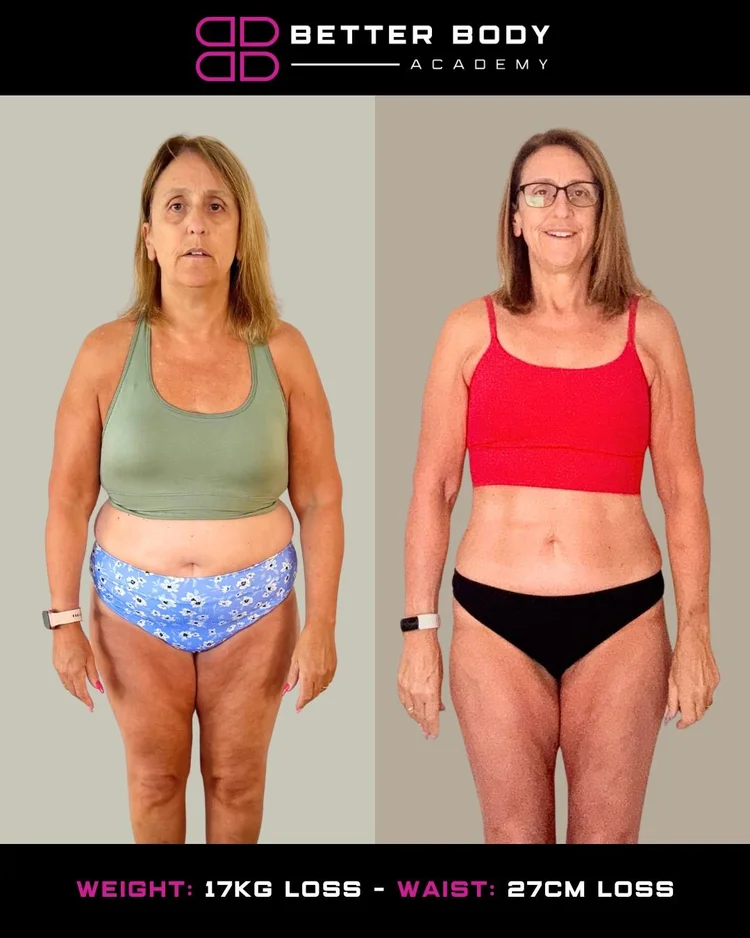
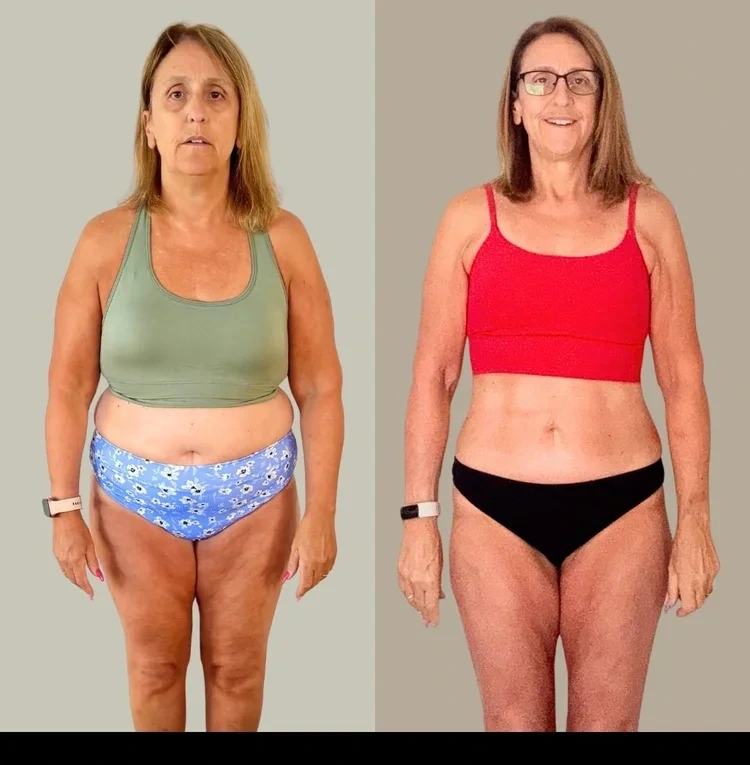
Tidy cover slide, drop numbered list pins, crop case-study photos
- Remove "Better Body Academy · Live Training" eyebrow from cover
- Push cover content lower with a top padding override
- Drop the 1/2/3 pin numbers from the "Three things, in one hour" slide
- Crop Vikki M and Linda J transformation photos so only the women
  show — top BBA logo bar and bottom result-pill bar removed

diff --git a/index.html b/index.html
@@ -143,7 +143,11 @@
   .mt-32 { margin-top: 32px; } .mt-48 { margin-top: 48px; }
 
   /* Cover slide */
-  .cover { position: relative; text-align: left; background: var(--bg); }
+  .cover {
+    position: relative; text-align: left; background: var(--bg);
+    justify-content: flex-start;
+    padding-top: clamp(140px, 22vh, 280px);
+  }
   .cover::before {
     content: ""; position: absolute; inset: 0;
     background:
@@ -367,7 +371,6 @@
     <div class="container">
       <div class="cover-grid">
         <div>
-          <div class="eyebrow">Better Body Academy · Live Training</div>
           <h1>The Hormone Fix for <span class="accent">stubborn weight gain</span> after 35.</h1>
           <p class="sub mt-32">A 60-minute live class for women who are doing everything right and still can't shift the weight. We'll show you why your body changed, what's actually going on with your hormones, and the exact next step that works for women in our community.</p>
           <div class="meta">
@@ -427,9 +430,9 @@
       <div class="eyebrow">What you'll walk away with</div>
       <h2>Three things, in one hour.</h2>
       <ul class="promise-list">
-        <li><span class="pin">1</span><span class="text">The real reason fat loss stops working for most women after 35, and how to tell which hormone is driving yours.</span></li>
-        <li><span class="pin">2</span><span class="text">Why high-protein, low-carb, and "just walk more" plans backfire when your cortisol is high and your estrogen is shifting.</span></li>
-        <li><span class="pin">3</span><span class="text">The 3-pillar BBA framework our coaching team uses with women in this exact stage of life.</span></li>
+        <li><span class="text">The real reason fat loss stops working for most women after 35, and how to tell which hormone is driving yours.</span></li>
+        <li><span class="text">Why high-protein, low-carb, and "just walk more" plans backfire when your cortisol is high and your estrogen is shifting.</span></li>
+        <li><span class="text">The 3-pillar BBA framework our coaching team uses with women in this exact stage of life.</span></li>
       </ul>
     </div>
   </section>